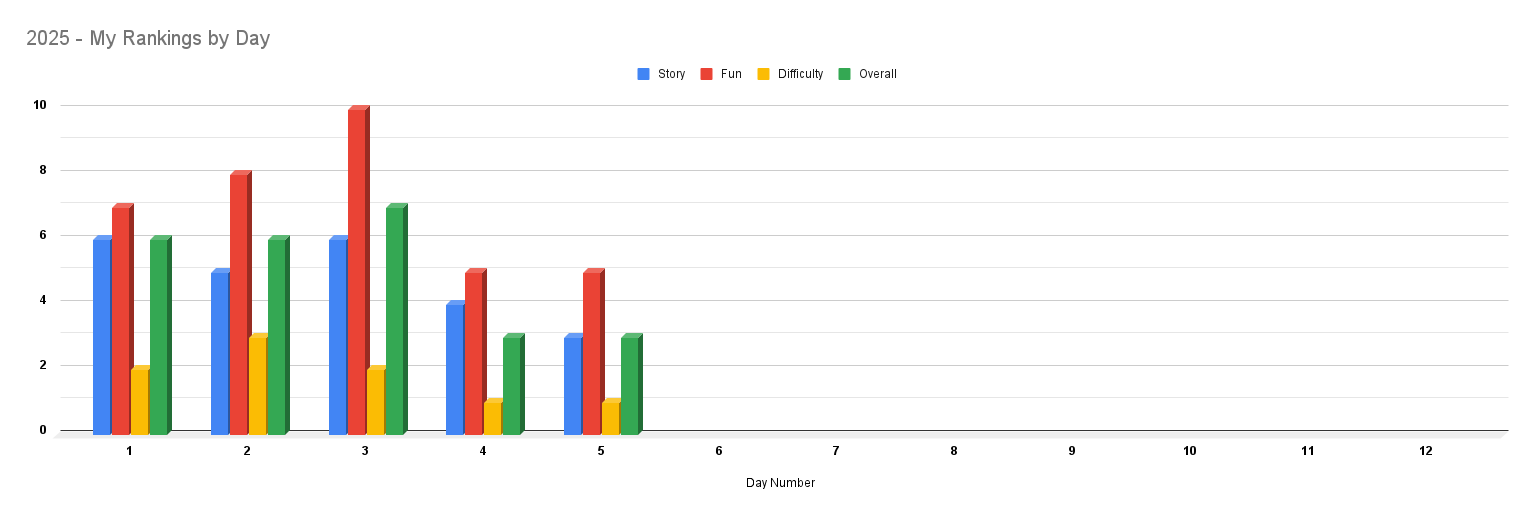
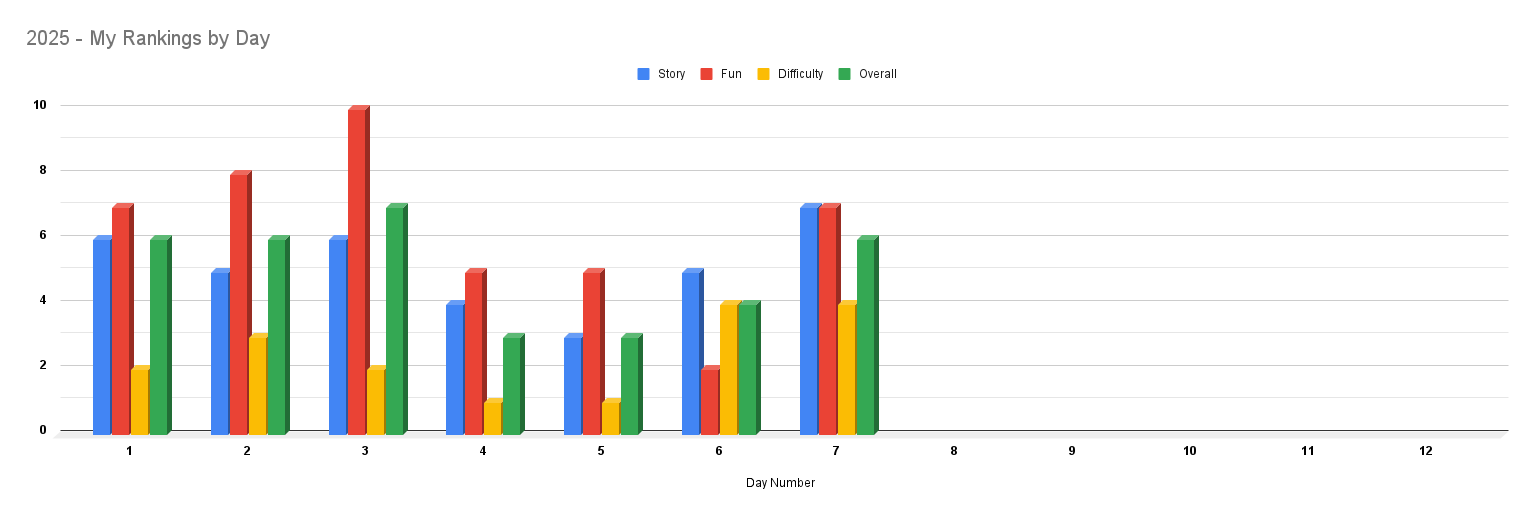
Days 6 and 7

Changed region(s): [[0.4289, 0.3721, 0.5821, 0.8682]]

diff --git a/2025/python/day6/main.py b/2025/python/day6/main.py
@@ -1,16 +1,42 @@
+import math
+
 from utils.timers import run_with_timer, get_data_with_timer
+from utils.utils import rotate_matrix
 
 
 def get_data(filename):
-	return
+	lines = open(filename).read().split("\n")[:-1]
+	indices = [(i, x) for i, x in enumerate(lines[-1]) if not x.isspace()]
+	data = []
+	for line in lines[:-1]:
+		row = [line[indices[i-1][0]:indices[i][0]-1] for i in range(1, len(indices))]
+		row.append(line[indices[-1][0]:])
+		data.append(row)
+	return {"i": indices, "d": data}
 
 
 def part_one(d):
-	return
+	rotated = rotate_matrix(d["d"])
+	return sum(get_amount_to_add_to_total(idx[1], rotated[i]) for i, idx in enumerate(d["i"]))
 
 
 def part_two(d):
-	return
+	total = 0
+	formatted_data = rotate_matrix([[x.rjust(max([len(y) for y in row]), " ") for x in row] for row in d["d"]])
+	for i, idx in enumerate(d["i"]):
+		nums = []
+		for j in range(len(formatted_data[i][0])):
+			next_num = ""
+			for word in formatted_data[i]:
+				next_num += word[j] if word[j].isnumeric else ""
+			nums.append(next_num[::-1])
+		total += get_amount_to_add_to_total(idx[1], nums)
+	return total
+
+
+def get_amount_to_add_to_total(oper, nums):
+	final_nums = [int(x) for x in nums if x.strip() != ""]
+	return sum(final_nums) if oper == "+" else math.prod(final_nums)
 
 
 def main(f="input.txt"):

diff --git a/2025/python/day7/main.py b/2025/python/day7/main.py
@@ -1,16 +1,32 @@
 from utils.timers import run_with_timer, get_data_with_timer
 
+from collections import defaultdict
 
 def get_data(filename):
-	return
-
+	all_data = open(filename).readlines()
+	return {"lines": [x for x in all_data if "^" in x], "start": all_data[0].index("S")}
 
 def part_one(d):
-	return
+	return fire_tachyon_beams({d["start"]: 1}, d["lines"], True)
 
 
 def part_two(d):
-	return
+	return fire_tachyon_beams({d["start"]: 1}, d["lines"], False)
+
+
+def fire_tachyon_beams(beam_counters, lines, p1):
+	splits = 0
+	for line in lines:
+		tachyon_beams = defaultdict(int)
+		for idx, counter in beam_counters.items():
+			if line[idx] == '^':
+				splits += 1
+				tachyon_beams[idx-1] += counter
+				tachyon_beams[idx+1] += counter
+			else:
+				tachyon_beams[idx] += counter
+			beam_counters = tachyon_beams
+	return splits if p1 else sum(beam_counters.values())
 
 
 def main(f="input.txt"):

diff --git a/2025/python/day6/test.py b/2025/python/day6/test.py
@@ -6,7 +6,7 @@ from main import part_one, part_two, get_data
 class TestMain(unittest.TestCase):
 
 	def test_part_one(self):
-		self.assertEqual("", part_one(get_data("sample.txt")))
+		self.assertEqual(4277556, part_one(get_data("sample.txt")))
 
 	def test_part_two(self):
-		self.assertEqual("", part_two(get_data("sample.txt")))
+		self.assertEqual(3263827, part_two(get_data("sample.txt")))

diff --git a/2025/python/day7/test.py b/2025/python/day7/test.py
@@ -6,7 +6,7 @@ from main import part_one, part_two, get_data
 class TestMain(unittest.TestCase):
 
 	def test_part_one(self):
-		self.assertEqual("", part_one(get_data("sample.txt")))
+		self.assertEqual(21, part_one(get_data("sample.txt")))
 
 	def test_part_two(self):
-		self.assertEqual("", part_two(get_data("sample.txt")))
+		self.assertEqual(40, part_two(get_data("sample.txt")))

diff --git a/2025/python/day5/test.py b/2025/python/day5/test.py
@@ -6,7 +6,7 @@ from main import part_one, part_two, get_data
 class TestMain(unittest.TestCase):
 
 	def test_part_one(self):
-		self.assertEqual("", part_one(get_data("sample.txt")))
+		self.assertEqual(3, part_one(get_data("sample.txt")))
 
 	def test_part_two(self):
-		self.assertEqual("", part_two(get_data("sample.txt")))
+		self.assertEqual(14, part_two(get_data("sample.txt")))

diff --git a/2025/python/run_all.py b/2025/python/run_all.py
@@ -13,7 +13,7 @@ import day10.main as d10
 import day11.main as d11
 import day12.main as d12
 
-days = [d1, d2, d3, d4, d5]
+days = [d7]
 
 
 def run_all(runs):
@@ -66,7 +66,7 @@ def run_part_with_no_data(runs, part2):
 
 
 def main():
-	runs = 2000
+	runs = 20000
 	run_all_get_data(runs)
 	run_all_part_one_no_data(runs)
 	run_all_part_two_no_data(runs)

diff --git a/2025/python/utils/grid.py b/2025/python/utils/grid.py
@@ -147,6 +147,9 @@ class Grid:
 			for col in row:
 				self.set_neighbors_for_point(p=col, include_diagonals=include_diagonals)
 
+	def get_data(self):
+		return self.data
+
 	def get_row(self, row):
 		return self.data[row]
 

diff --git a/2025/python/day6/README.md b/2025/python/day6/README.md
@@ -1,21 +1,54 @@
 # Approach
 ### Data format
 
+Well, 90% of this puzzle ended up being parsing the data into a format that was most helpful. When looking at the input,
+the first thought was simply to split on spaces, store everything in a 2D array and move on...but what about all the
+strange spacings?!
 
+_The left/right alignment of numbers within each problem can be ignored._
+
+...ok, so I can ignore them for now...but why even put that line in there and have the strange spacing if it wasn't
+going to be important later?
+
+So, I did initially just store everything as numbers, but when I got to part 2, I ended up changing it so that I maintained
+the spaces in every number. The way I had to do that was look at the position of the operators in the final line of the
+input to help detemrine where each number ACTUALLY starts.
+
+I then iterated over every line and saved each number, with spaces included, in my 2D array.
+
+I finally decided to store the operation indices as well as the 2D array of numbers and return them as my data so that I could
+use them in each part.
 
 ### Part 1
-> __
+> _What is the grand total found by adding together all of the answers to the individual problems?_
 
+Since I have all of the numbers in a 2D array, I decided to just rotate the array clockwise 90-degrees so that
+each ROW contained the operation needed, followed by all of the numbers. This worked out well because the only
+operations were `+` and `*` which are commutative. So it really doesn't matter if I read it left to right or right to left...
 
+Now just loop over every row in my rotated matrix and get the sum or product of all of the numbers in the row based on
+which operation is defined.
+
+Very simple.
 
 ### Part 2
 > _What is their similarity score?_
 
+Well, as I mentioned in the data section above, I saved all of the spacing in the values of the array...so, I just needed
+to figure out how to get the numbers correctly. The first step was to rotate the matrix again, and make sure each number in the row
+had the same size, with the spaces in the correct place. So I right padded each number to the size of the longest value.
+Now I had all of the numbers, with correct size and spacing, and rotated in the correct orientation.
 
+Now, the way I built the numbers ended up building them in reverse order...so I finally just had to reverse the strings,
+parse them as integers, and then I can just do the same operation(s) as I did in part 1.
+
+It really wasn't any harder than part 1, except getting the input correct was just a pain in the...
 
 # Results
 
-|              | Exec. Time (ms) |
-|--------------|----------------:|
-| **Part One** |                 |
-| **Part Two** |                 |
+|              |       Exec. Time (ms) - Python 3.13 | Exec. Time (ms) - PyPy 3.11 |
+|--------------|------------------------------------:|----------------------------:|
+| **Get Data** |                               3.152 |                       0.973 |
+| **Part One** |                               3.745 |                       1.428 |
+| **Part Two** |                             567.389 |                      31.018 |
+| **TOTAL**    |                           *574.286* |                    *33.419* |

diff --git a/2025/python/day7/README.md b/2025/python/day7/README.md
@@ -1,21 +1,38 @@
 # Approach
 ### Data format
 
+My first pass at this one had me using my `Grid` class. It seemed like a natural choice, based on the type of input data.
+It actually worked just fine...I read it in, found the start point, and used the `Grid` methods to get and set values
+and move the beams through the grid.
 
+After finishing the puzzle, I realized it was WAY overhead, since I only ever needed to get the values to the right
+and left of the splitters...so I can just use a basic 2D array, which is going to be MUCH faster.
 
 ### Part 1
-> __
+> _How many times will the beam be split?_
 
+At first, I actually fired a beam from the start, kept a `set` of all of the active beams, and I would just keep popping
+them off of the `set` until there were none left. Every time I hit a splitter, I added 2 new beams to the set.
 
+This worked pretty well, especially with my `Grid`, since points wouldn't be duplicated. Again, though, once I realized
+how much overkill my original approach was, I rewrote it completely.
+
+Basically, I just take it line by line (since once the beams leave a given line, they don't ever have to go back up for
+any reason). Whenever I run into a `^`, just add to the number of splits. Then move to the next line and process it...
+nothing else to it really.
 
 ### Part 2
-> _What is their similarity score?_
+> _In total, how many different timelines would a single tachyon particle end up on?_
 
-
+Again, I originally had it working with my `Grid`, and swapped out the `set` for a `dict`, but during my rewrite, I realized
+it's pretty much the same thing as part 1, but just keep a dictionary of the number of times any given point is hit by a
+split. So, since I'm just keeping track of counts in a `dict`, it runs extremely fast!
 
 # Results
 
-|              | Exec. Time (ms) |
-|--------------|----------------:|
-| **Part One** |                 |
-| **Part Two** |                 |
+|              |     Exec. Time (ms) - Python 3.13 |     Exec. Time (ms) - PyPy 3.11 |
+|--------------|----------------------------------:|--------------------------------:|
+| **Get Data** |                             0.366 |                           0.431 |
+| **Part One** |                             2.988 |                           0.684 |
+| **Part Two** |                             2.940 |                           0.723 |
+| **TOTAL**    |                           *6.294* |                         *1.838* |
